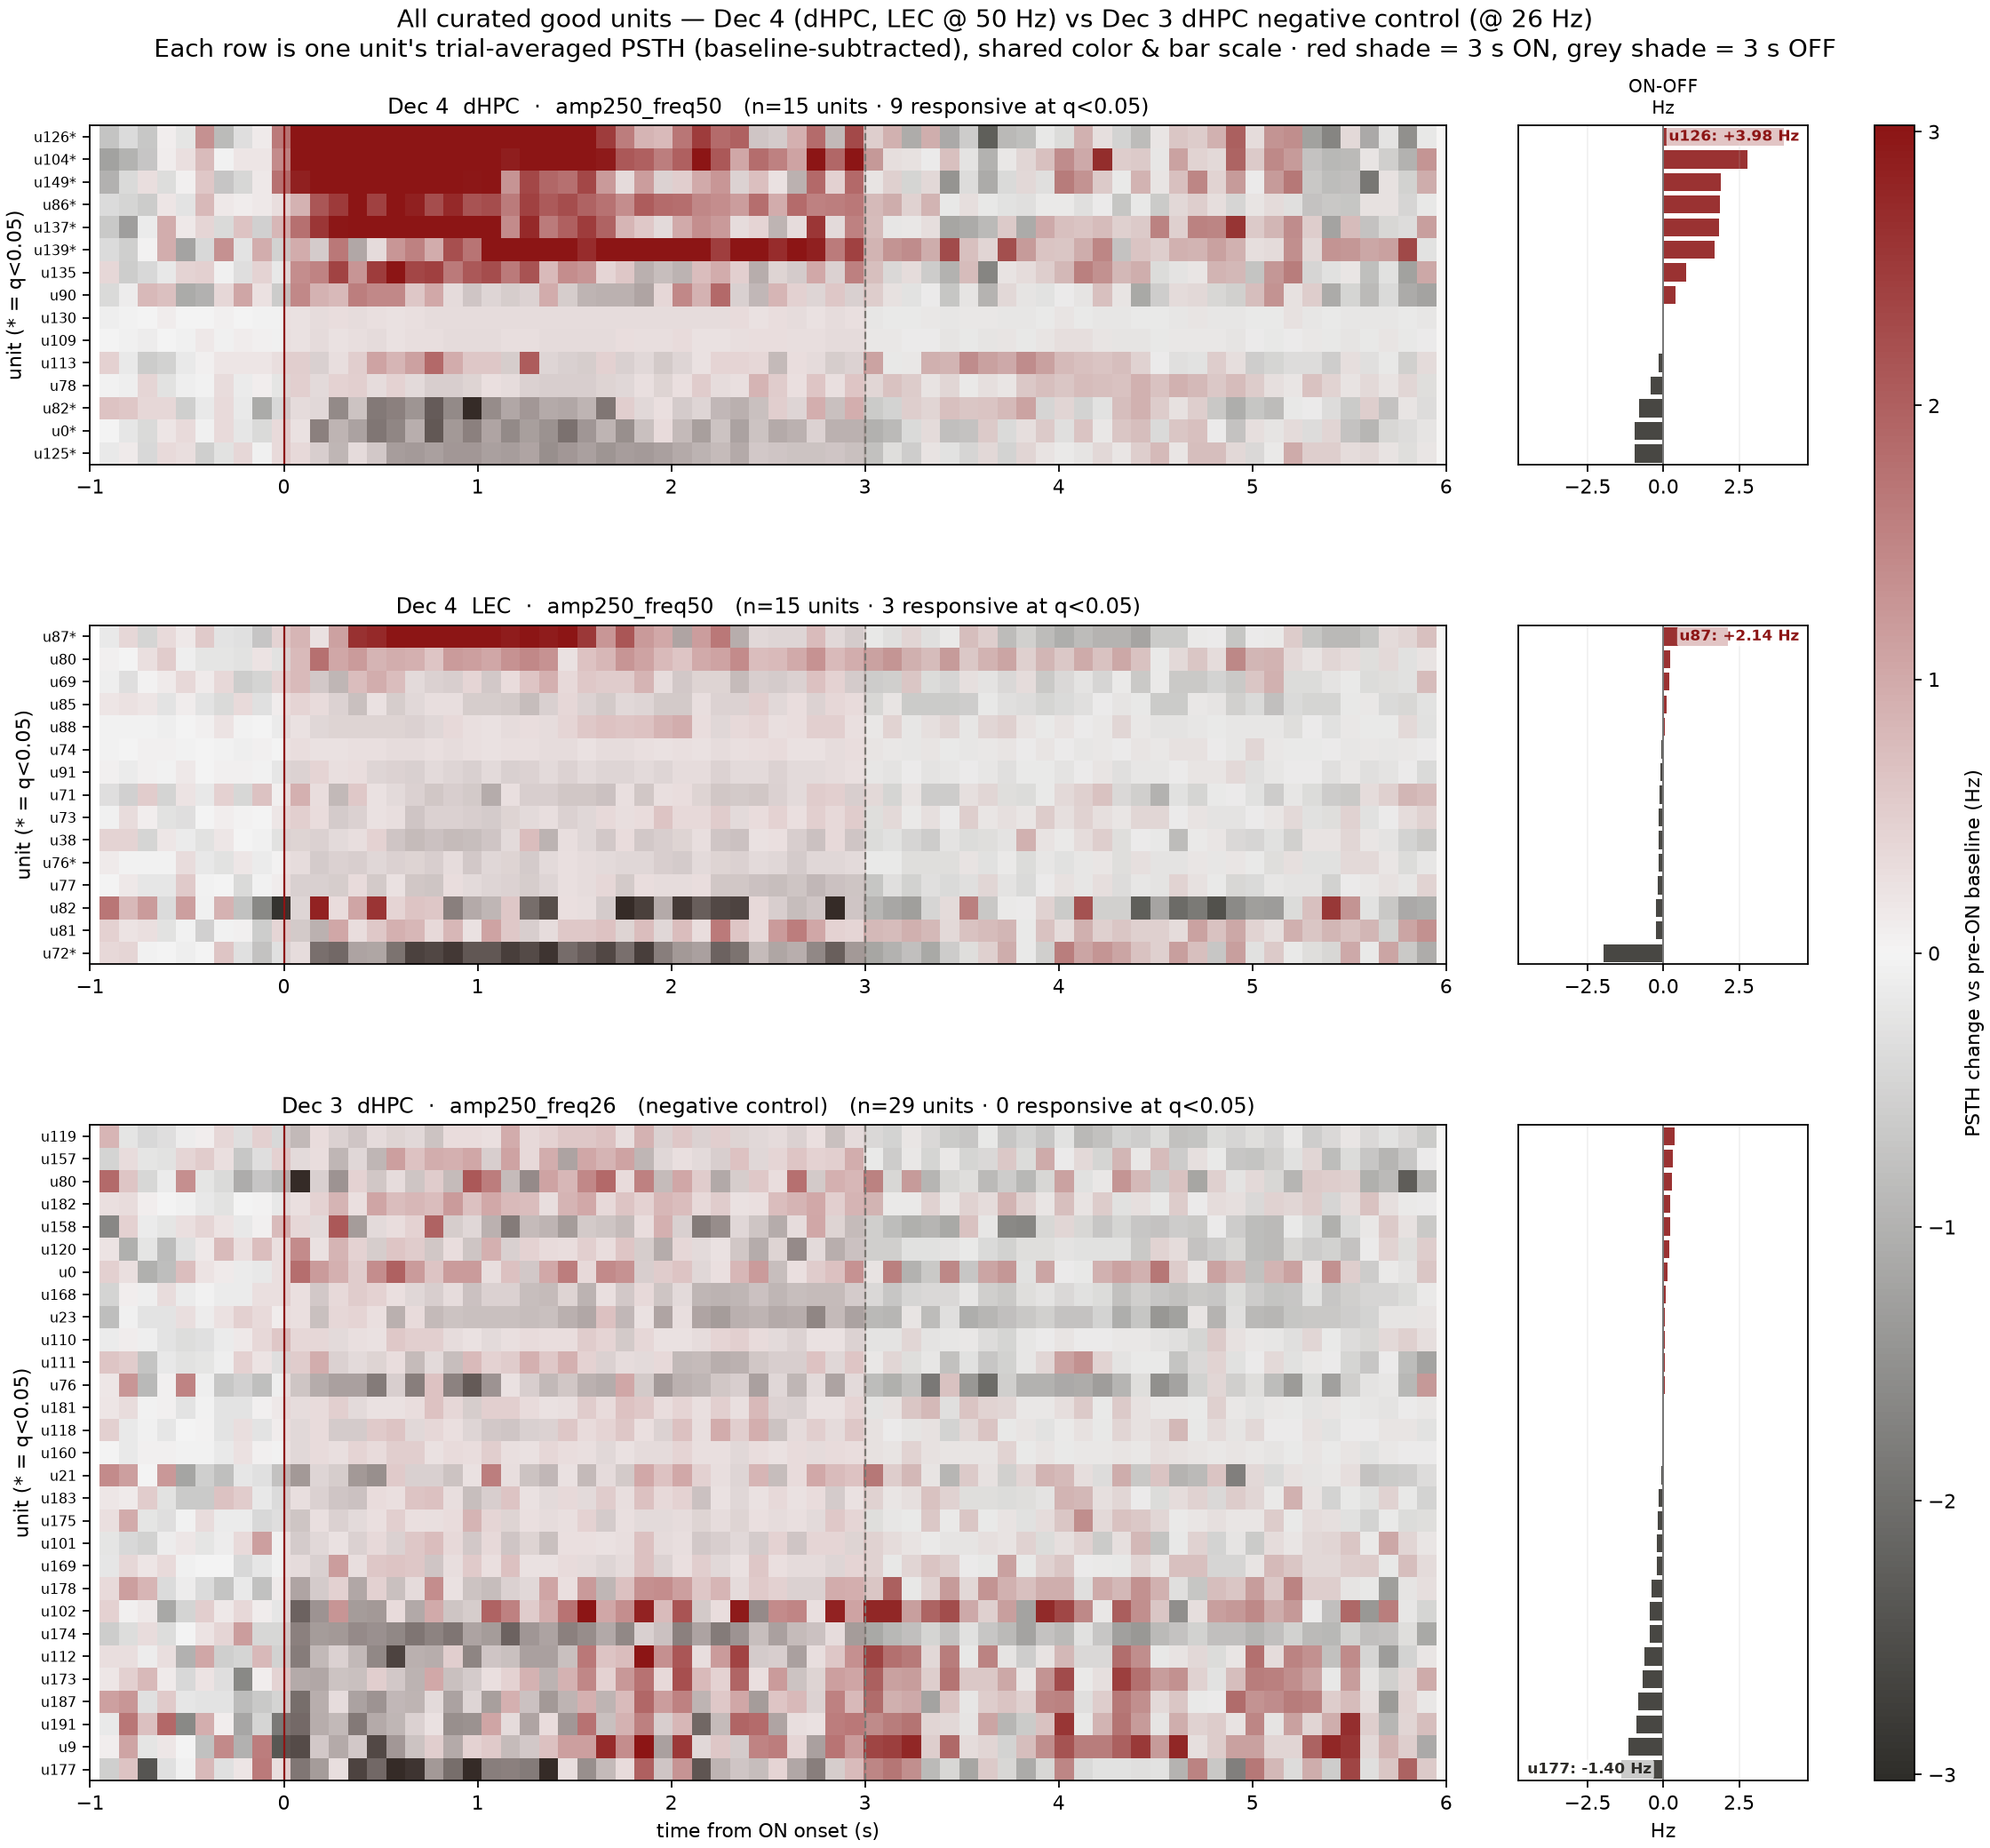
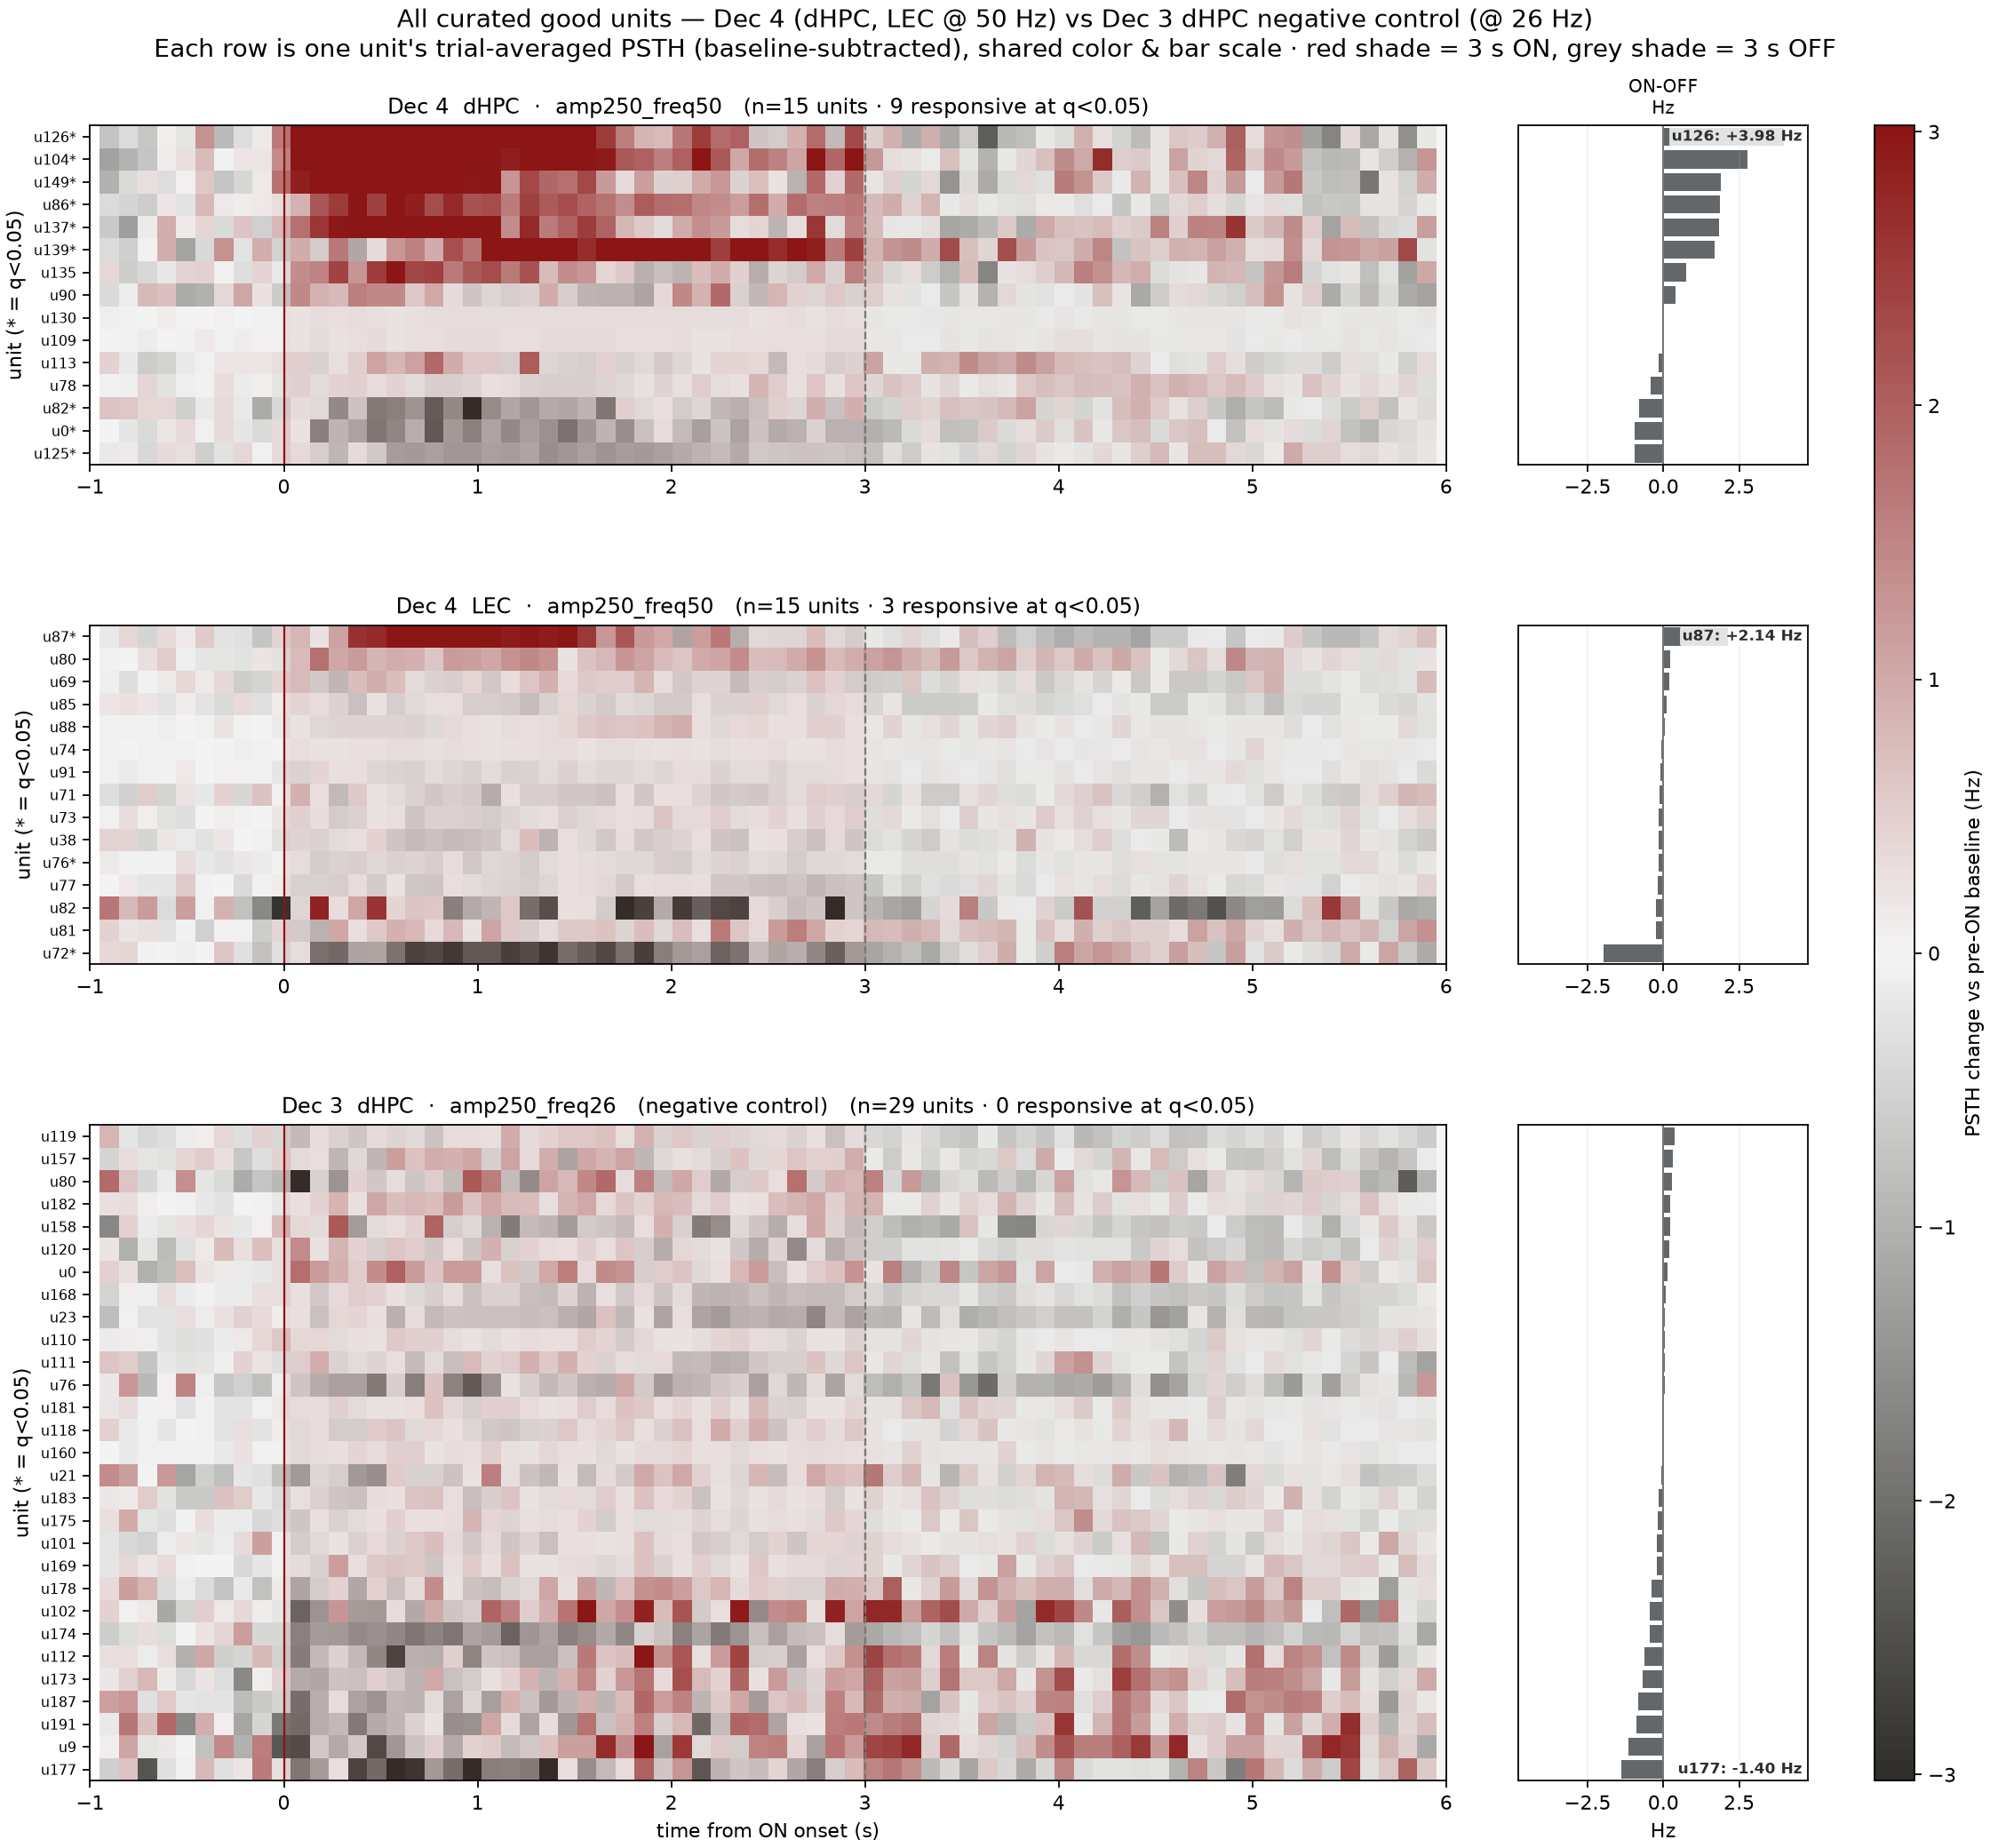
Combined all-units heatmap: single-color ON-OFF bars + max label always on the right

diff --git a/analysis/raster_psth_all_units_combined.py b/analysis/raster_psth_all_units_combined.py
@@ -106,19 +106,18 @@ def main():
         if r == len(panels) - 1:
             ax.set_xlabel("time from ON onset (s)")
 
-        vals = s.mean_delta_hz.to_numpy(); colors = np.where(vals >= 0, UP, DOWN)
-        bx.barh(np.arange(len(vals)), vals, color=colors, alpha=0.88)
+        vals = s.mean_delta_hz.to_numpy()
+        bx.barh(np.arange(len(vals)), vals, color="#53565A", alpha=0.9)   # single neutral color; sign read by direction
         bx.axvline(0, color="#777", lw=0.9)
         bx.tick_params(axis="y", left=False, labelleft=False)
         bx.set_ylim(pp["n"] - 0.5, -0.5); bx.set_xlim(-bar_lim, bar_lim)
         bx.grid(axis="x", alpha=0.18)
-        # label the largest |ON-OFF| change in this panel, on its row, on the side it points
+        # label the largest |ON-OFF| change in this panel, always on the right side of the bar axis
         imax = int(np.nanargmax(np.abs(vals))); vmx = float(vals[imax]); cidmx = int(s.cluster_id.iloc[imax])
-        bx.text(0.97 if vmx >= 0 else 0.03, imax, f"u{cidmx}: {vmx:+.2f} Hz",
-                transform=bx.get_yaxis_transform(), va="center",
-                ha="right" if vmx >= 0 else "left", fontsize=7.6, fontweight="bold",
-                color=(UP if vmx >= 0 else DOWN), zorder=6,
-                bbox=dict(boxstyle="round,pad=0.15", fc="white", ec="none", alpha=0.72))
+        bx.text(0.98, imax, f"u{cidmx}: {vmx:+.2f} Hz",
+                transform=bx.get_yaxis_transform(), va="center", ha="right",
+                fontsize=7.6, fontweight="bold", color="#2E2D29", zorder=6,
+                bbox=dict(boxstyle="round,pad=0.15", fc="white", ec="none", alpha=0.82))
         if r == 0:
             bx.set_title("ON-OFF\nHz", fontsize=9)
         if r == len(panels) - 1: